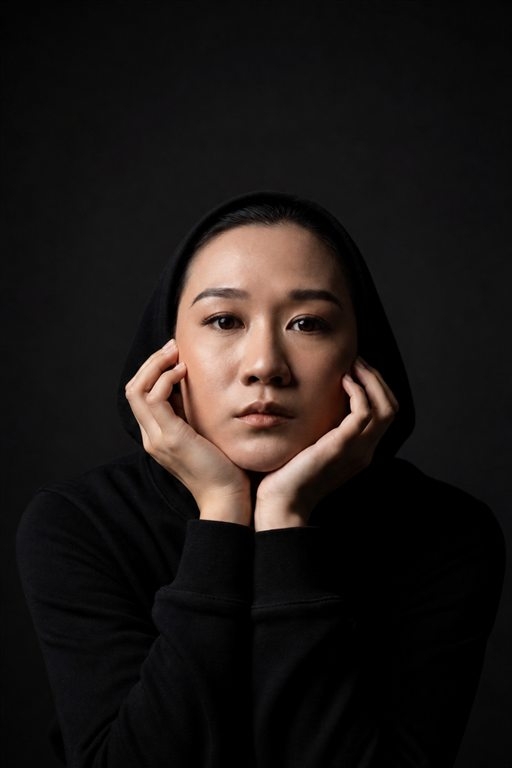
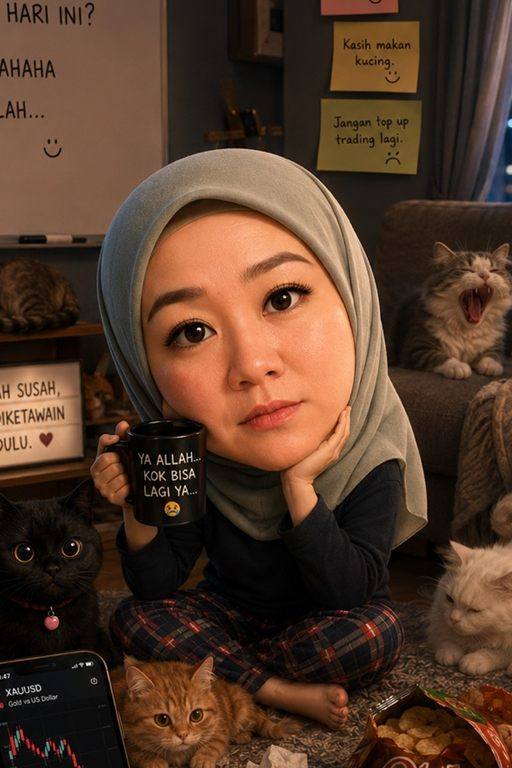
fix: update hero portrait and mobile menu

diff --git a/polish.css b/polish.css
@@ -655,9 +655,55 @@ section + section::after {
 
 @media (max-width: 700px) {
   body { overscroll-behavior-y: auto; -webkit-overflow-scrolling: touch; }
-  .site-header { padding-top: 4px; }
+  .site-header { z-index: 1000; padding-top: 4px; }
+  .site-header .nav-wrap { position: relative; z-index: 2; }
+  .site-header .brand,
+  .menu-toggle { position: relative; z-index: 1002; }
   .site-header.scrolled .nav-wrap { width: calc(100% - 20px); height: 58px; padding: 0 14px; }
-  .site-nav { border-radius: 0; }
+  .site-nav {
+    position: absolute;
+    inset: 68px 10px auto;
+    z-index: 1001;
+    width: auto;
+    height: calc(100dvh - 78px);
+    max-height: calc(100dvh - 78px);
+    padding: 24px 18px;
+    gap: 4px;
+    overflow-y: auto;
+    overscroll-behavior: contain;
+    color: var(--ink);
+    background: rgba(246, 245, 239, .985);
+    border: 1px solid rgba(255,255,255,.92);
+    border-radius: 22px;
+    box-shadow: 0 28px 80px rgba(14, 22, 18, .24);
+    backdrop-filter: blur(24px) saturate(1.15);
+    -webkit-backdrop-filter: blur(24px) saturate(1.15);
+    transform: translateY(-8px) scale(.985);
+    transform-origin: top center;
+    opacity: 0;
+    visibility: hidden;
+    pointer-events: none;
+    transition: opacity .24s ease, transform .3s cubic-bezier(.2,.72,.2,1), visibility 0s linear .3s;
+  }
+  .site-nav.open {
+    transform: translateY(0) scale(1);
+    opacity: 1;
+    visibility: visible;
+    pointer-events: auto;
+    transition-delay: 0s;
+  }
+  .site-nav a {
+    display: flex;
+    width: 100%;
+    min-height: 52px;
+    align-items: center;
+    padding: 8px 12px;
+    border-radius: 12px;
+    line-height: 1.15;
+  }
+  .site-nav a:not(.nav-cta):hover,
+  .site-nav a:not(.nav-cta):focus-visible { background: rgba(18,21,19,.055); }
+  .site-nav .nav-cta { margin-top: 12px; justify-content: space-between; padding-inline: 16px; }
   .hero { padding-top: 112px; }
   .hero-portrait { border-radius: 22px; }
   .impact-strip { padding: 22px 0 72px; }

diff --git a/index.html b/index.html
@@ -69,7 +69,7 @@
         </div>
         <figure class="hero-portrait reveal">
           <!-- REPLACE: Use your final optimized professional portrait here. -->
-          <img src="assets/hero-portrait-800.jpg" srcset="assets/hero-portrait-512.jpg 512w, assets/hero-portrait-800.jpg 800w" sizes="(max-width: 700px) calc(100vw - 28px), (max-width: 900px) min(calc(100vw - 40px), 640px), 44vw" alt="Close-up professional portrait of Nana Febrina" width="800" height="1200" fetchpriority="high">
+          <img src="assets/hero-portrait-800.jpg" srcset="assets/hero-portrait-512.jpg 512w, assets/hero-portrait-800.jpg 800w" sizes="(max-width: 700px) calc(100vw - 28px), (max-width: 900px) min(calc(100vw - 40px), 640px), 44vw" alt="Portrait of Nana Febrina in a warm home workspace" width="800" height="1200" fetchpriority="high">
           <figcaption><span>Indonesia</span><span>Available for selected opportunities</span></figcaption>
         </figure>
       </div>
